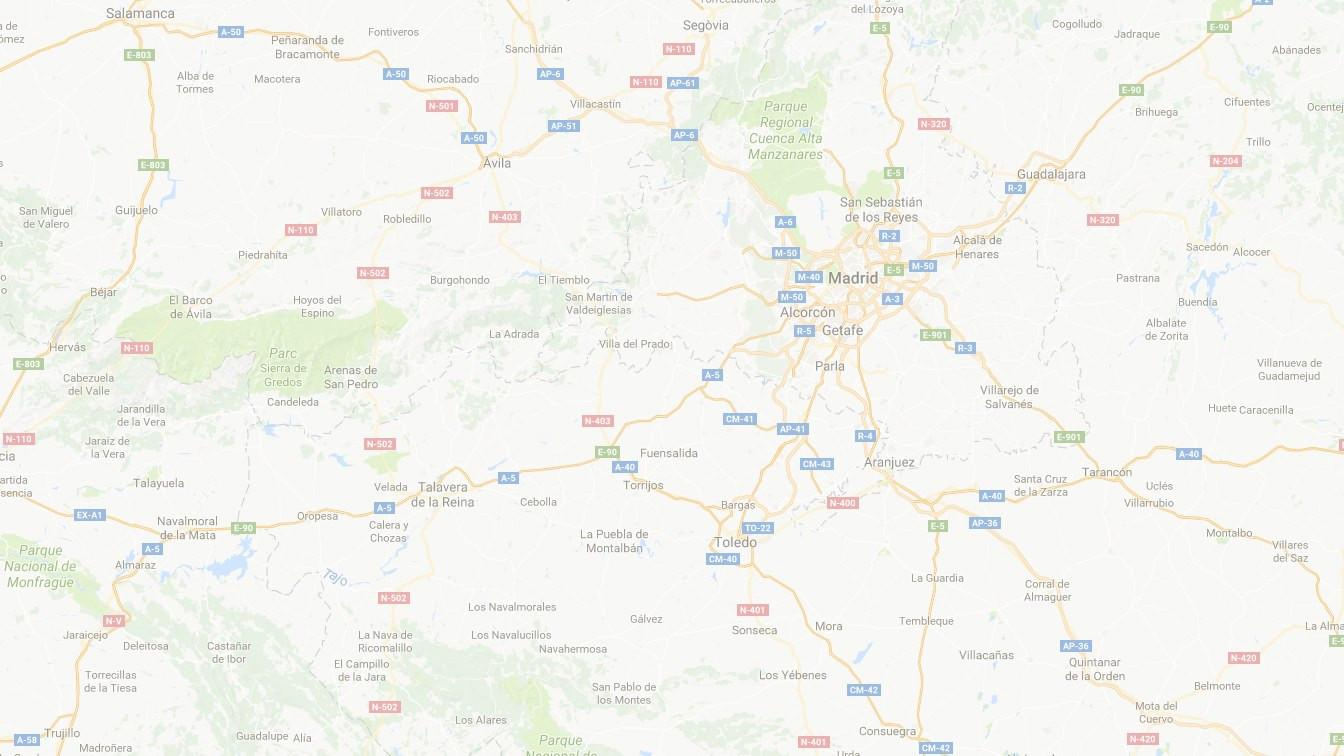
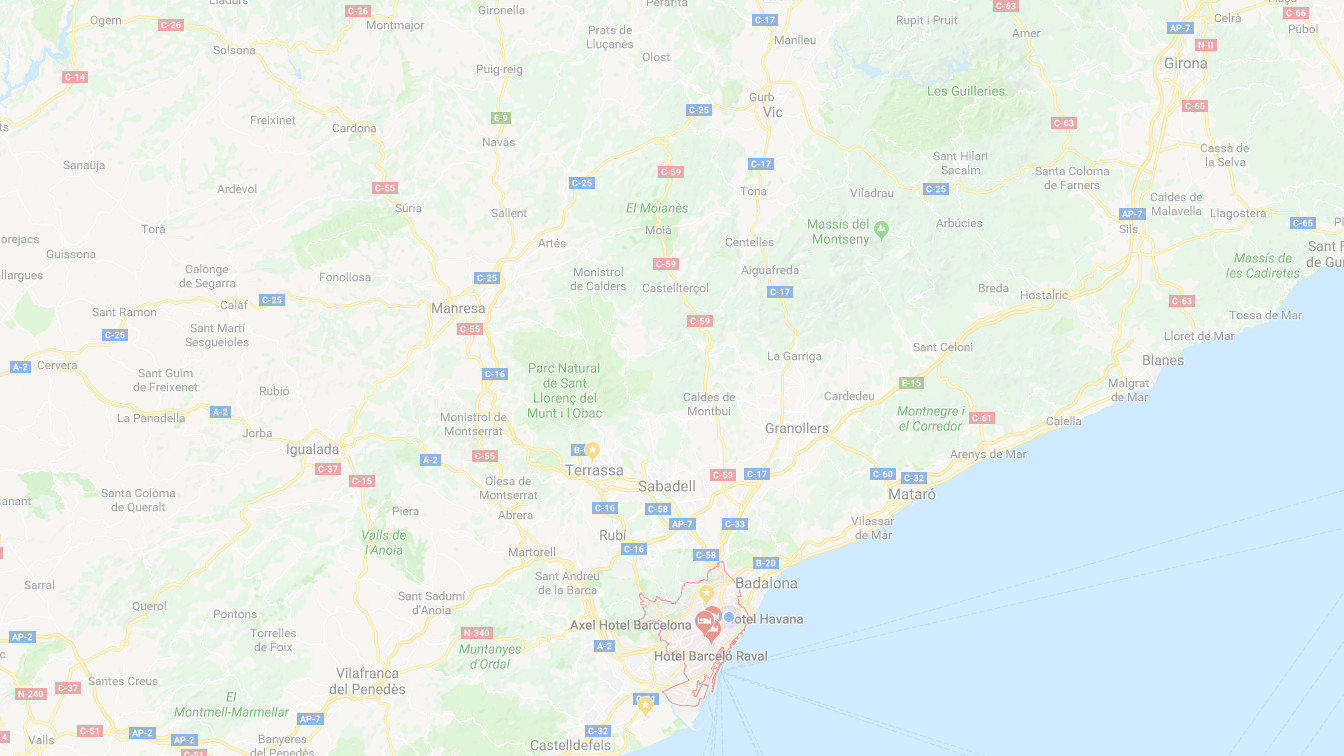
subgrup de dades catalunya versió 1

diff --git a/components/NavBarBenFamNum.js b/components/NavBarBenFamNum.js
@@ -36,15 +36,6 @@ export default class NavBarBenFamNum extends React.Component {
                 <NavItem><Link prefetch href="/contacto">
                   <a title='Contacta con nosotros'>Contacto</a>
                 </Link></NavItem>
-                <NavItem><Link href="http://www.familiasnumerosas.org/conocenos/quienes-somos/">
-                  <a target='_blank' title='enlace externo' rel='noopener'>La Federación</a>
-                </Link></NavItem>
-                <NavItem><Link href="http://www.familiasnumerosas.org/conocenos/nuestras-asociaciones/">
-                  <a target='_blank' title='enlace externo' rel='noopener'>Las Asociaciones</a>
-                </Link></NavItem>
-                <NavItem><Link href="http://www.familiasnumerosas.org/hazte-socio/">
-                  <a target='_blank' title='enlace externo' rel='noopener'>Hazte socio</a>
-                </Link></NavItem>
                 <NavItem><Link prefetch href="/buscador">
                   <a title='Buscador'><FontAwesome
                 name='search'

diff --git a/pages/aviso-legal.js b/pages/aviso-legal.js
@@ -31,7 +31,7 @@ export default () => (
         <p>FANOC asegura la más estricta confidencialidad en la recogida y tratamiento de los datos facilitados por sus usuarios a través de Internet o cualquier otro medio. Los datos facilitados por los usuarios serán empleados únicamente para las finalidades descritas en el propio formulario de suscripción y determinadas por cada usuario.</p>
 
         <p><strong>Associació de Famílies Nombroses de Catalunya - FANOC</strong><br/> 
-        C/ Balmes, 92m 4t 1ªB<br/>
+        C/ Balmes, 92 4t 1ªB<br/>
         08008 Barcelona<br/>
         Tel.: +34 93 351 10 00<br/>
         Fax: +34 93 467 32 98<br/>

diff --git a/pages/contacto.js b/pages/contacto.js
@@ -21,10 +21,10 @@ const Contacto = () => (
       </ul>
     </nav>
       <h1>Associació de Famílies Nombroses de Catalunya - FANOC</h1>
-      <p>Campomanes, 6 - 4º derecha<br/>
-      28013 - Madrid<br/>
+      <p>C/ Balmes, 92 4t 1ªB<br/>
+        08008 Barcelona<br/>
       <Link href='mailto:info@fanoc.org'><a>info@fanoc.org</a></Link></p>
-      <MapaDeGoogle lat="40.418931" lng="-3.709144" />
+      <MapaDeGoogle lat="41.3914434" lng="2.1578962" />
 
     <style jsx>{`
       .breadcrumbs {

diff --git a/pages/ofertas-en-el-mapa.js b/pages/ofertas-en-el-mapa.js
@@ -199,7 +199,7 @@ const Localidades = (props) => (
 )
 
 Localidades.getInitialProps = async function() {
-  const res = await fetch('https://gestorbeneficios.familiasnumerosas.org/wp-json/lanauva/v1/beneficios?sim-model=localidad')
+  const res = await fetch('https://gestorbeneficios.familiasnumerosas.org/wp-json/lanauva/v1/beneficios?comunidad=Catalu%C3%B1a&sim-model=localidad')
   const beneficios = await res.json()
 
   console.log(`Ofertas data fetched. Count: ${beneficios.length}`)
